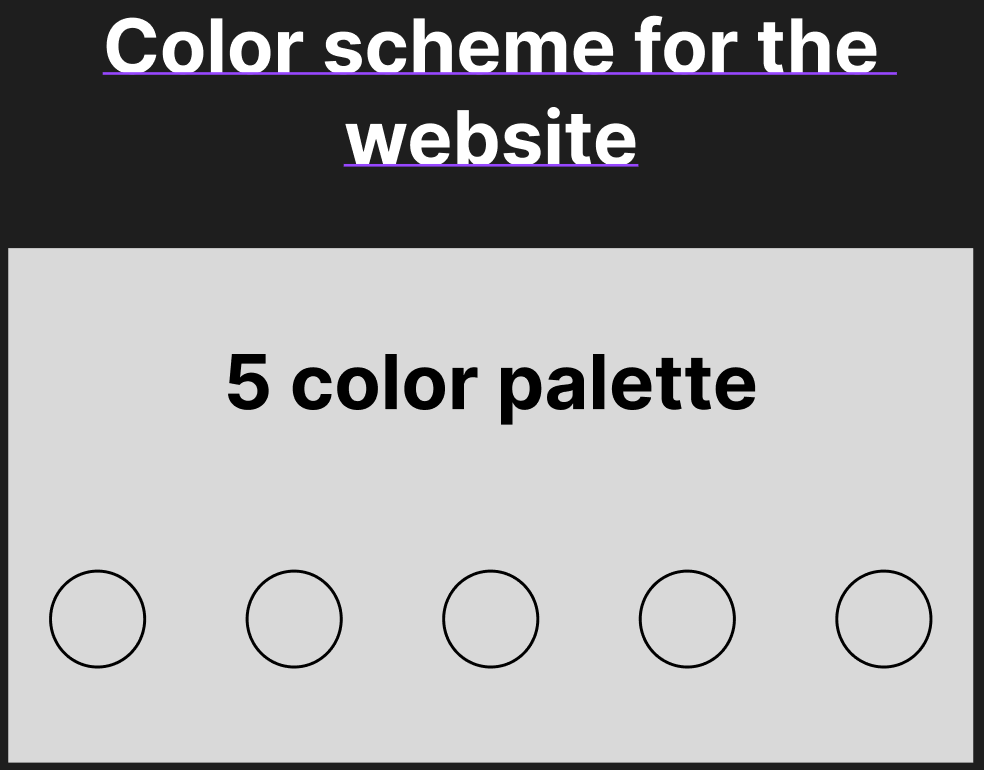
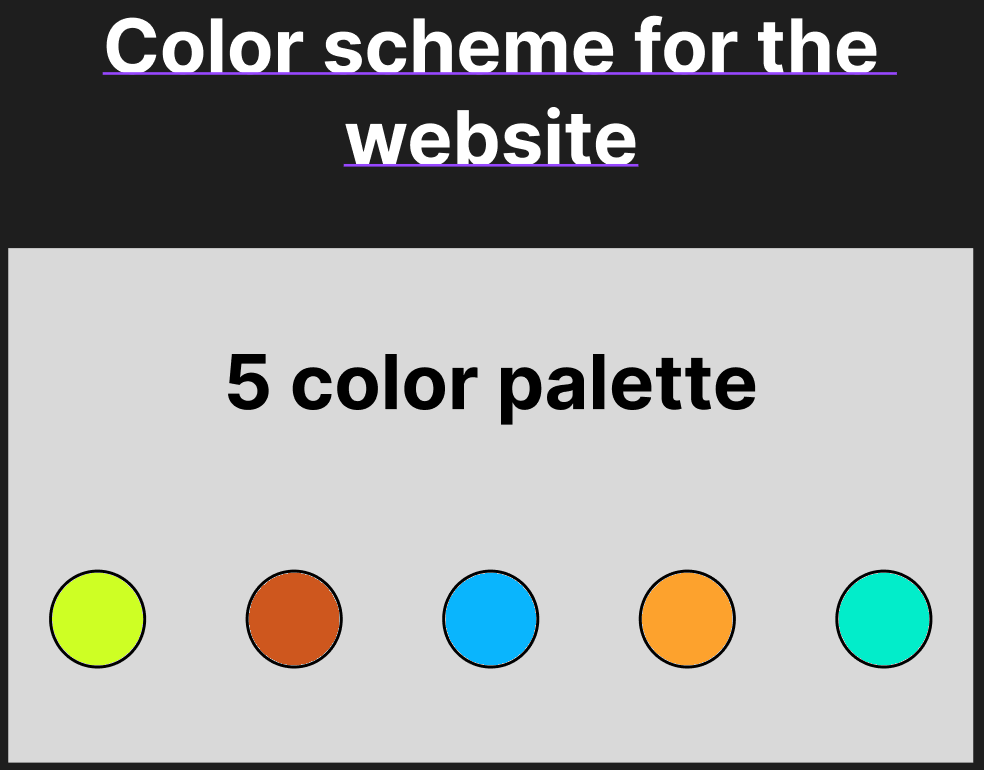
esquema de colores, footer a todas las paginas ,integracion de bootstrap

diff --git a/contact.html b/contact.html
@@ -16,10 +16,10 @@
   </div>
   
   <div class="main">
-      2
+    2
   </div>
-  
-    <div class="footer">
+
+  <div class="footer">
     <div class="container-fluid">
       <div class="row">
         <footer class="footer text-dark text-center">
@@ -47,6 +47,8 @@
       </div>
     </div>
   </div>
+  
+
   <!--
   This script places a badge on your repl's full-browser view back to your repl's cover
   page. Try various colors for the theme: dark, light, red, orange, yellow, lime, green,

diff --git a/about.html b/about.html
@@ -16,10 +16,10 @@
   </div>
   
   <div class="main">
-      2
+    2
   </div>
   
-    <div class="footer">
+  <div class="footer">
     <div class="container-fluid">
       <div class="row">
         <footer class="footer text-dark text-center">
@@ -47,6 +47,7 @@
       </div>
     </div>
   </div>
+
   <!--
   This script places a badge on your repl's full-browser view back to your repl's cover
   page. Try various colors for the theme: dark, light, red, orange, yellow, lime, green,

diff --git a/style.css b/style.css
@@ -2,3 +2,9 @@ html {
   height: 100%;
   width: 100%;
 }
+
+footer {
+  background-color: #CEFF24;
+  padding: 12px; /* Añade relleno para mejorar la apariencia */
+}
+
